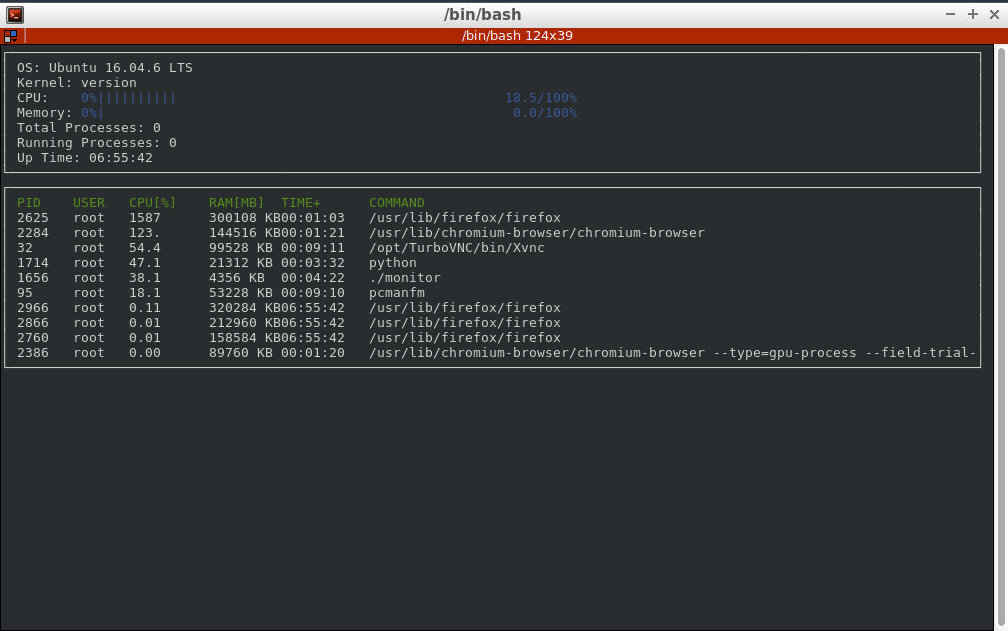
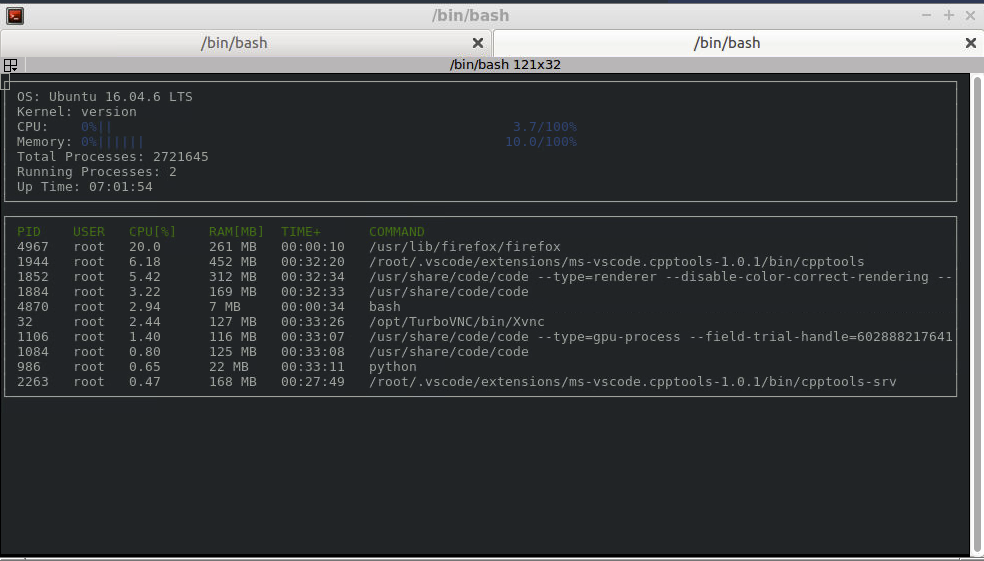
latest updates

Changed region(s): [[0.0, 0.0, 1.0, 0.697], [0.0, 0.9697, 1.0, 1.0], [0.9451, 0.3333, 0.9756, 0.3939]]

diff --git a/Project2_System_Monitor/src/linux_parser.cpp b/Project2_System_Monitor/src/linux_parser.cpp
@@ -13,9 +13,9 @@ using std::to_string;
 using std::vector;
 
 string LinuxParser::OperatingSystem() {
-  string line;
-  string key;
-  string value;
+  std::string line;
+  std::string key;
+  std::string value;
   std::ifstream filestream(kOSPath);
   if (filestream.is_open()) {
     while (std::getline(filestream, line)) {
@@ -35,8 +35,8 @@ string LinuxParser::OperatingSystem() {
 }
 
 string LinuxParser::Kernel() {
-  string os, kernel;
-  string line;
+  std::string os, kernel;
+  std::string line;
   std::ifstream stream(kProcDirectory + kVersionFilename);
   if (stream.is_open()) {
     std::getline(stream, line);
@@ -48,16 +48,6 @@ string LinuxParser::Kernel() {
 
 
 std::vector<int> LinuxParser::Pids() {
-    // std::vector<int> pids;
-    // for (const auto& entry : std::filesystem::directory_iterator(kProcDirectory)) {
-    //     if (entry.is_directory()) {
-    //         std::string filename = entry.path().filename().string();
-    //         if (std::all_of(filename.begin(), filename.end(), ::isdigit)) {
-    //             int pid = std::stoi(filename);
-    //             pids.push_back(pid);
-    //         }
-    //     }
-    // }
     vector<int> pids;
     DIR *directory = opendir(kProcDirectory.c_str());
     struct dirent *file;
@@ -81,35 +71,38 @@ std::vector<int> LinuxParser::Pids() {
 
 //  Read and return the system memory utilization
 float LinuxParser::MemoryUtilization() { 
-  std::ifstream meminfo(kMeminfoFilename);
-  std::string line;
+  std::ifstream memInfo(kProcDirectory + kMeminfoFilename);
+  
   double totalMemory = 0.0;
-  double availableMemory = 0.0; 
-  while (std::getline(meminfo, line)) {
-        std::istringstream linestream(line);
-        std::string key;
-        double value;
+  double availableMemory = 0.0;
 
-        // Parse each line to extract memory information
-        linestream >> key >> value;
-        if (key == "MemTotal:") {
-            totalMemory = value;
-        } else if (key == "MemAvailable:") {
-            availableMemory = value;
-        }
+  if(memInfo.is_open()){
+    std::string line;
+    
+    while (getline(memInfo, line)) {
+          std::istringstream linestream(line);
+          std::string key,value;
+          linestream >> key >> value;
 
-        // Break the loop if both values are found
-        if (totalMemory > 0.0 && availableMemory > 0.0) {
-            break;
+          if (key == "MemTotal:") {
+              totalMemory = std::stod(value);
+          } else if (key == "MemAvailable:") {
+              availableMemory = std::stod(value);
+          }
+
+          // Break the loop if both values are found
+          if (totalMemory > 0.0 && availableMemory > 0.0) {
+              break;
+          }
         }
-    } 
+      } 
     if (totalMemory == 0.0) {
         return 0.0;
     }
-    double memoryUtilization = 100.0 * (1.0 - (availableMemory / totalMemory));
+    double memoryUtilization =  (totalMemory - availableMemory) / totalMemory ;
     return memoryUtilization;
+    }
   
-  }
 
 // Read and return the system uptime
 long LinuxParser::UpTime() { 
@@ -245,57 +238,49 @@ float LinuxParser::CpuUtilizationProcess(int pid) {
     long seconds = uptime - (starttime / sysconf(_SC_CLK_TCK));
 
     if (seconds > 0) {
-          cpuUsage = 100.0 * ((total_time / sysconf(_SC_CLK_TCK)) / static_cast<float>(seconds));
+          cpuUsage =  ((total_time / sysconf(_SC_CLK_TCK)) / static_cast<float>(seconds));
       }
 
       return cpuUsage;
   }
 // Read and return the total number of processes
 int LinuxParser::TotalProcesses() {
-  int totalnumofRunningProcesses = 0;
-  std::ifstream statFile(kProcDirectory+kStatusFilename);
+  int totalProcesses = 0;
+  std::ifstream statFile(kProcDirectory + kStatFilename);
   
   if(statFile.is_open()){
-    string line;
-    while(std::getline(statFile, line)){
+    std::string line;
+    while(getline(statFile, line)){
       std::istringstream linestream(line);
-      string key;
-      linestream >> key;
+      std::string key, value;
+      linestream >> key >> value ;
       if(key == "processes"){
-        linestream >> totalnumofRunningProcesses;
+        totalProcesses = std::stoi(value);
         break;
-      }else{
-        std::cerr << "Error: Couldn't open the stat file." << std::endl;
-        throw std::runtime_error("Couldn't open the stat file.");
-        }
+      }
       }
     }
-  return totalnumofRunningProcesses; 
+  return totalProcesses; 
   }
 
-// Read and return the number of running processes
-int LinuxParser::RunningProcesses() { 
-  
-  int numofRunningProcesses = 0;
-  std::ifstream statFile(kProcDirectory+kStatusFilename);
-  
-  if(statFile.is_open()){
-    string line;
-    while(std::getline(statFile, line)){
+int LinuxParser::RunningProcesses()
+{
+  std::string procRunning, procRunningNum;
+  std::string line;
+  std::ifstream stream(kProcDirectory + kStatFilename);
+
+  if (stream.is_open())
+  {
+    while (getline(stream, line))
+    {
       std::istringstream linestream(line);
-      string key;
-      linestream >> key;
-      if(key == "procs_running"){
-        linestream >> numofRunningProcesses;
+      linestream >> procRunning >> procRunningNum;
+      if (procRunning == "procs_running")
         break;
-      }else{
-        std::cerr << "Error: Couldn't open the stat file." << std::endl;
-        throw std::runtime_error("Couldn't open the stat file.");
-        }
-      }
     }
-  return numofRunningProcesses; 
   }
+  return std::stoi(procRunningNum);
+}
 
 // Read and return the command associated with a process
 std::string LinuxParser::Command(int pid) {
@@ -326,7 +311,7 @@ std::string LinuxParser::Ram(int pid) {
             // Look for lines containing "VmRSS:" (Resident Set Size)
             if (iss >> key >> value && key == "VmRSS:") {
                 // Memory usage is in kilobytes, you can convert to other units if needed
-                ram_usage = std::to_string(value) + " KB";
+                ram_usage = std::to_string(value / 1000)   + " MB ";
                 break; 
             }
         }

diff --git a/Project2_System_Monitor/src/processor.cpp b/Project2_System_Monitor/src/processor.cpp
@@ -32,7 +32,7 @@ float Processor::Utilization() {
         return 0.0;
     }
 
-    float cpuUtilization = 100.0 * (1.0 - static_cast<float>(idleDelta) / totalDelta);
+    float cpuUtilization = (1.0 - static_cast<float>(idleDelta) / totalDelta); //did not multiply with 100 since the units are in KB, it cancels out each other.
 
     prevCpuStats = currCpuStats;
 
